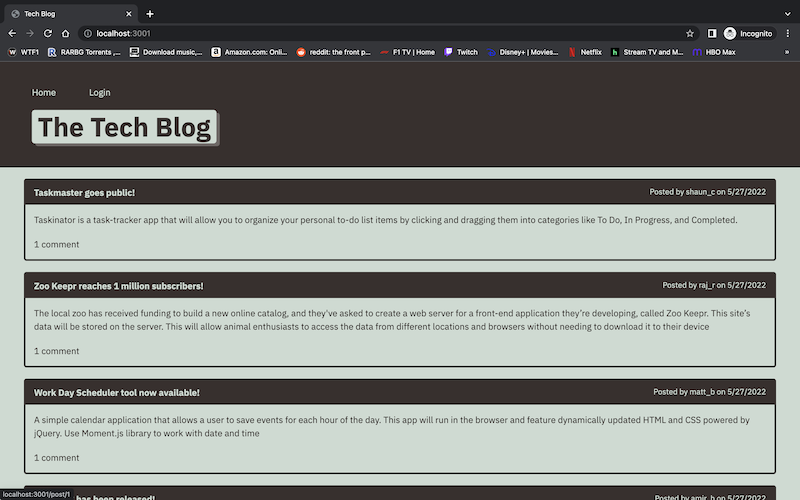
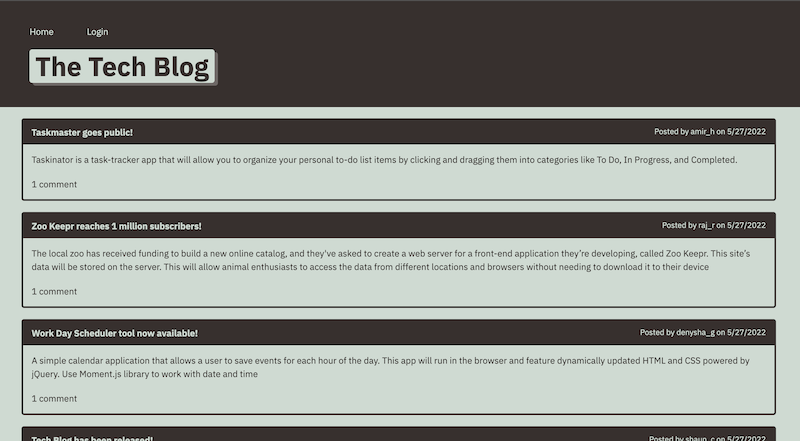
edited readme.md

diff --git a/seeds/user-seeds.js b/seeds/user-seeds.js
@@ -7,19 +7,9 @@ const userData = [
         password: "p@ssword1"
     },
     {
-        username: "matt_b",
-        email: "mathew_b@gmail.com",
-        password: "p@ssword2"
-    },
-    {
-        username: "shaun_c",
-        email: "shaun_c@gmail.com",
-        password: "p@ssword3"
-    },
-    {
-        username: "lee_n",
-        email: "lee_n@gmail.com",
-        password: "p@ssword4"
+        username: "denysha_g",
+        email: "denysha_g@gmail.com",
+        password: "p@ssword6"
     },
     {
         username: "amir_h",
@@ -27,9 +17,14 @@ const userData = [
         password: "p@ssword5"
     },
     {
-        username: "denysha_g",
-        email: "denysha_g@gmail.com",
-        password: "p@ssword6"
+        username: "lee_n",
+        email: "lee_n@gmail.com",
+        password: "p@ssword4"
+    },
+    {
+        username: "shaun_c",
+        email: "shaun_c@gmail.com",
+        password: "p@ssword3"
     }
 ]
 
